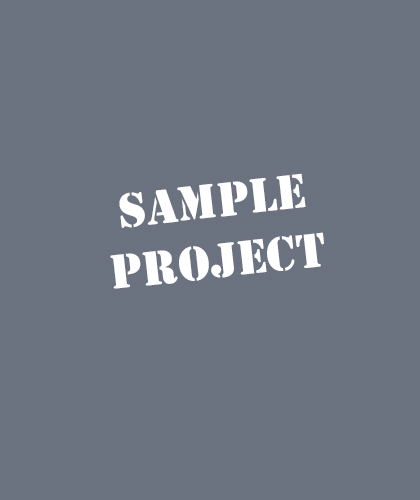
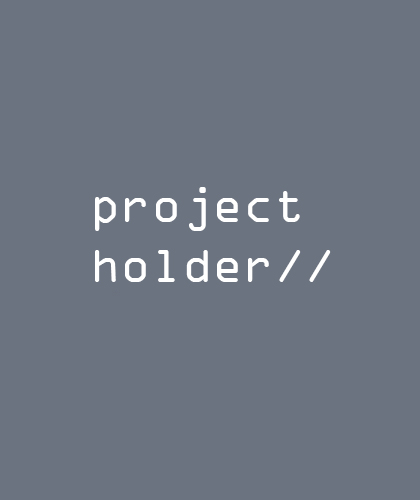
new hero img and copy

Changed region(s): [[0.2167, 0.33, 0.8048, 0.6]]

diff --git a/src/App.tsx b/src/App.tsx
@@ -4,7 +4,8 @@ import Header from './components/Header';
 import Hero from './components/Hero';
 import TextSection from './components/TextSection';
 import Carousel from './components/Carousel';
-import ContentSection from './components/ContentSection';
+import AboutSection from './components/AboutSection';
+import ContentSection from './components/AboutSection';
 import './App.css'; // Import your styles (optional, but recommended for consistency)
 
 
@@ -23,7 +24,7 @@ const App = () => {
       </div>
 
       {/* Hero with full-width bg-gray-300 background */}
-      <div className="bg-[url('/hero-graphic.jpg')] bg-cover bg-center bg-no-repeat">
+      <div className="bg-[url('/hero-graphic3.jpg')] bg-cover bg-center bg-no-repeat">
         {/* Centered container for hero content */}
         <div className="max-w-7xl mx-auto items-center" >
           <Hero />
@@ -41,8 +42,7 @@ const App = () => {
 
       {/* Centered container for the rest of the content */}
       <div className="max-w-7xl mx-auto bg-black">
-        <ContentSection />
-        <ContentSection />
+        <AboutSection />
       </div>
     </div>
   );

diff --git a/src/components/Hero.tsx b/src/components/Hero.tsx
@@ -4,11 +4,17 @@
 const Hero = () => {
   return (
 <div className="mx-auto flex max-w-7xl items-center justify-center bg-transparent">
-  <div className="w-[1247px] h-[475px] inline-flex items-center justify-center">
-  <p className="text-white text-5xl font-roboto font-medium leading-25 py-[50px] bg-transparent uppercase">
-        Building better apps with ai
-      </p>
-  </div>
+<div className="w-[1247px] h-[475px] flex flex-col items-left justify-center">
+  <h1 className="text-white text-5xl font-roboto font-medium leading-25 py-[50px] bg-transparent uppercase">
+    Explore the Latest in<br></br> AI with AVA on AI
+  </h1>
+  <p className="text-white text-xl font-roboto font-medium leading-25">
+    From cutting-edge AI tutorials to app showcases, dive into<br></br> the future of tech and creativity.
+  </p>
+  <button className="w-[140px] h-[50px] mt-8 font-roboto font-medium bg-yellow-400 text-black rounded hover:bg-yellow-300">
+    Start Exploring
+  </button>
+</div>
 </div>
   );
 };

diff --git a/src/components/AboutSection.tsx b/src/components/AboutSection.tsx
@@ -1,0 +1,22 @@
+//import React from 'react';
+
+const AboutSection = () => {
+  return (
+    <div className="w-full h-[300px] bg-white flex items-center justify-center">
+    <div className="w-[1247px] h-[500px] flex flex-col items-left justify-center">
+    <h1 className="text-black text-5xl font-roboto font-medium leading-25 py-[50px] bg-transparent uppercase">
+      What Is AVA on AI?
+    </h1>
+    <p className="text-black text-xl font-roboto font-medium leading-25">
+    "AVA on AI" is your go-to resource for exploring the latest developments 
+        in artificial intelligence. With engaging tutorials and practical app-building 
+        projects, we make cutting-edge technology accessible to everyone. Whether you’re 
+        an AI enthusiast or a developer looking to expand your skills, you’ll find inspiration 
+        and guidance here.
+    </p>
+    </div>
+  </div>
+  );
+};
+
+export default AboutSection;

diff --git a/src/components/CustomCursor.tsx b/src/components/CustomCursor.tsx
@@ -16,7 +16,7 @@ const CustomCursor: React.FC = () => {
       const ring = document.querySelector(".cursor-ring") as HTMLDivElement;
       if (ring) {
         ring.style.transform = "scale(1.5)";
-        ring.style.borderColor = "#ddf272"; // Color when hovering
+        ring.style.borderColor = "#d4b7c1"; // Color when hovering
       }
     };
 
@@ -24,7 +24,7 @@ const CustomCursor: React.FC = () => {
       const ring = document.querySelector(".cursor-ring") as HTMLDivElement;
       if (ring) {
         ring.style.transform = "scale(1)";
-        ring.style.borderColor = "#f81257"; // Reset color
+        ring.style.borderColor = "#d4b7c1"; // Reset color
       }
     };
 

diff --git a/src/App.css b/src/App.css
@@ -46,7 +46,7 @@ a {
 .cursor {
   width: 16px;
   height: 16px;
-  background-color: #f81257;
+  background-color: #d4b7c1;
   border-radius: 50%;
   position: absolute;
   pointer-events: none;
@@ -57,7 +57,7 @@ a {
 .cursor-ring {
   width: 52px;
   height: 52px;
-  border: 1px solid #f81257;
+  border: 1px solid #d4b7c1;
   border-radius: 50%;
   position: absolute;
   pointer-events: none;

diff --git a/src/components/TextSection.tsx b/src/components/TextSection.tsx
@@ -3,7 +3,7 @@ const TextSection = () => {
   return (
     <div className="w-full h-[90px] bg-black flex items-center justify-center">
       <p className="text-white text-center text-2xl font-roboto font-medium leading-5 py-[50px] bg-transparent relative z-[9999] uppercase">
-        Projects in development
+      Apps from the Tutorials
       </p>
     </div>
   );

diff --git a/src/components/Header.tsx b/src/components/Header.tsx
@@ -19,7 +19,7 @@ const Header = () => {
               className=""
               href="https://www.youtube.com/@avaonai"
             >
-              AVA on AI
+              AVA on YouTube
             </a>
           </li>
 
